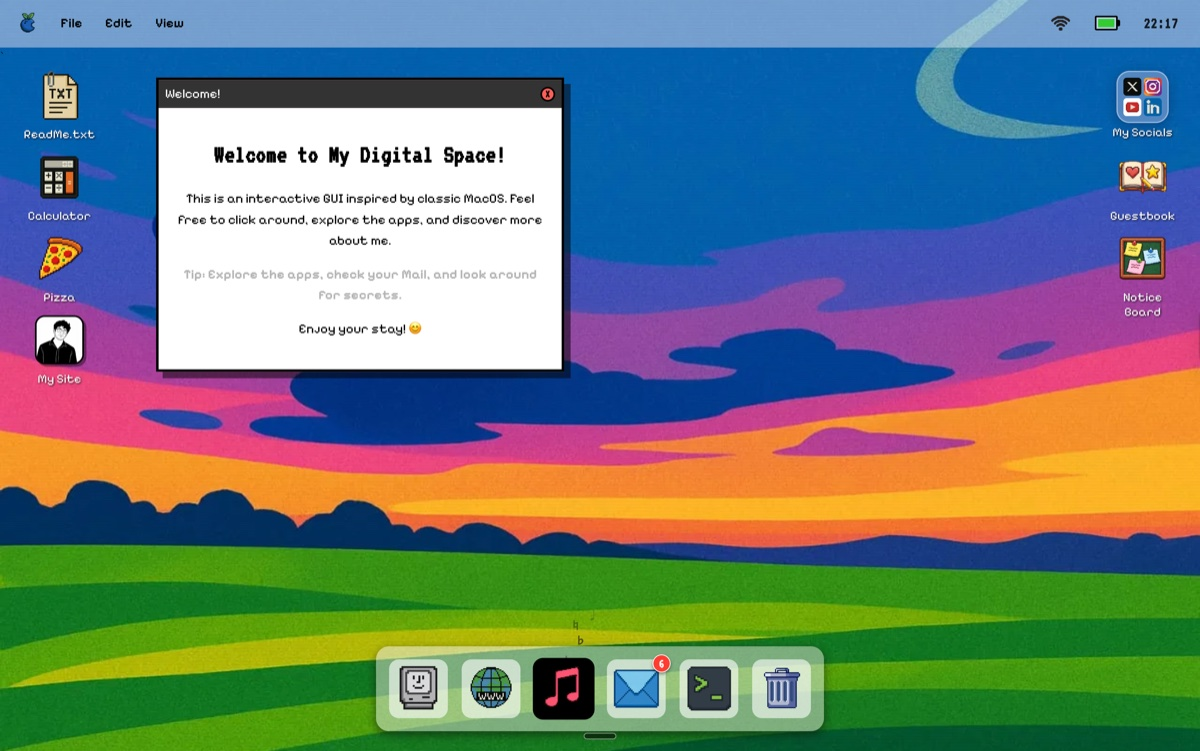
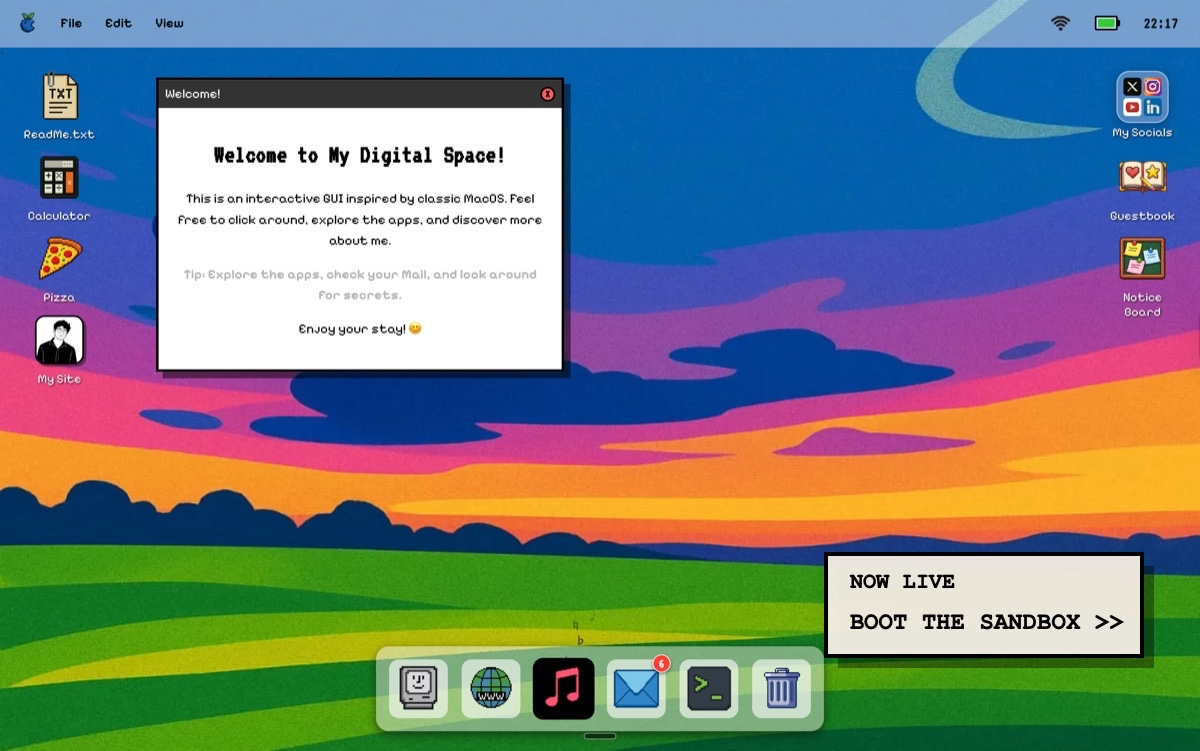
Open Graph tags

Changed region(s): [[0.6783, 0.735, 0.9867, 0.8881]]

diff --git a/index.html b/index.html
@@ -9,7 +9,7 @@
     <!-- HTML Meta Tags -->
     <meta
       name="description"
-      content="RetroOS is a product-grade operating system sandbox engineered as a desktop-style browser environment with modular apps, serverless services, and Redis-backed shared data."
+      content="RetroOS is a browser-based operating system sandbox with draggable windows, hidden interactions, modular apps, and Redis-backed shared data."
     />
 
     <!-- Facebook Meta Tags -->
@@ -21,7 +21,7 @@
     />
     <meta
       property="og:description"
-      content="RetroOS is a product-grade operating system sandbox engineered as a desktop-style browser environment with modular apps, serverless services, and Redis-backed shared data."
+      content="RetroOS is a browser-based operating system sandbox with draggable windows, hidden interactions, modular apps, and Redis-backed shared data."
     />
     <meta
       property="og:image"
@@ -38,7 +38,7 @@
     />
     <meta
       name="twitter:description"
-      content="RetroOS is a product-grade operating system sandbox engineered as a desktop-style browser environment with modular apps, serverless services, and Redis-backed shared data."
+      content="RetroOS is a browser-based operating system sandbox with draggable windows, hidden interactions, modular apps, and Redis-backed shared data."
     />
     <meta
       name="twitter:image"
@@ -149,7 +149,7 @@
     </div>
 
     <div
-      id="icon-portfolio"
+      id="icon-site"
       class="desktop-icon"
       data-open-action="url"
       data-open-target="https://abhinavkuchhal.com"
@@ -917,8 +917,8 @@
                   class="favourite-item internet-favourite-btn"
                   data-url="https://abhinavkuchhal.com"
                 >
-                  <img src="assets/icons/me.png" alt="Portfolio" />
-                  <span class="favourite-label">Portfolio</span>
+                  <img src="assets/icons/me.png" alt="Sandbox" />
+                  <span class="favourite-label">Sandbox</span>
                 </button>
                 <button
                   type="button"

diff --git a/js/apps/terminal.js b/js/apps/terminal.js
@@ -23,7 +23,7 @@ const terminalSocialLinks = [
     label: "Website",
     fileName: "Website.url",
     url: "https://abhinavkuchhal.com",
-    aliases: ["my site", "portfolio"],
+    aliases: ["my site", "website", "sandbox"],
   },
   {
     key: "github",
@@ -125,7 +125,7 @@ const terminalCommands = {
   cat: {
     description: "Read a text file or project note",
     usage: "cat <file>",
-    examples: ["cat ReadMe.txt", 'cat "01-retro-os-portfolio.txt"', 'cat "GitHub.url"'],
+    examples: ["cat ReadMe.txt", 'cat "01-retro-os-sandbox.txt"', 'cat "GitHub.url"'],
     execute(args) {
       const target = args.join(" ").trim();
       if (!target) {
@@ -147,7 +147,7 @@ const terminalCommands = {
       "open github",
       'open "HackYours"',
       'open "system architecture blueprint"',
-      'open "retro desktop portfolio inspiration"',
+      'open "retro desktop sandbox inspiration"',
     ],
     execute(args) {
       const target = args.join(" ").trim();
@@ -286,14 +286,14 @@ const terminalCommands = {
     },
   },
   about: {
-    description: "About the RetroOS portfolio",
+    description: "About the RetroOS operating system sandbox",
     usage: "about",
     execute() {
       return createTextResult(
         [
           `Retro OS v${TERMINAL_OS_VERSION}`,
           "",
-          "A product-grade interactive portfolio engineered as a desktop-style browser environment with modular apps and Redis-backed shared features.",
+          "A product-grade operating system sandbox engineered as a desktop-style browser environment with modular apps and Redis-backed shared features.",
           "The terminal now mirrors the rest of the OS with real window hooks, folder navigation,",
           "project shortcuts, mail summaries, and theme controls.",
         ].join("\n")

diff --git a/js/apps/projects.js b/js/apps/projects.js
@@ -6,8 +6,8 @@
 // --- DATA ---
 const projectsData = [
   {
-    title: "Retro OS Portfolio",
-    description: "The interactive portfolio website you are currently viewing, inspired by classic MacOS.",
+    title: "Retro OS Sandbox",
+    description: "The interactive operating system sandbox you are currently viewing, inspired by classic MacOS.",
     date: "Aug 23, 2025",
     technologies: ["HTML5", "CSS3", "JavaScript"],
     demoUrl: "#", codeUrl: "#",
@@ -37,11 +37,11 @@ const projectsData = [
     codeUrl: "https://github.com/JustPratiyush/AI-Powered-Medical-Assistant",
   },
   {
-    title: "Old Personal Website",
-    description: "My primary personal portfolio website showcasing my skills, projects, and professional journey.",
+    title: "Legacy Personal Website",
+    description: "My previous personal website showcasing my skills, projects, and professional journey.",
     date: "Jun 22, 2025",
     technologies: ["Vanilla Frontend"],
-    demoUrl: "https://www.oldportfolio.abhinavkuchhal.com",
+    demoUrl: "#",
     codeUrl: "#",
   },
 ];

diff --git a/js/system.js b/js/system.js
@@ -809,7 +809,7 @@ function menuAction(action) {
     case "About This Mac":
       createMessageWindow(
         "About This Mac",
-        `<strong>Retro OS v2.1</strong><br>Created by Abhinav Kuchhal.<br><br>A fun, interactive portfolio website inspired by classic Mac OS. Enjoy your stay!`
+        `<strong>Retro OS v2.1</strong><br>Created by Abhinav Kuchhal.<br><br>An interactive operating system sandbox inspired by classic Mac OS. Enjoy your stay!`
       );
       break;
     case "System Info":

diff --git a/README.md b/README.md
@@ -1,6 +1,6 @@
 # RetroOS
 
-RetroOS is a handcrafted single-page portfolio that recreates a retro desktop operating system in the browser with vanilla HTML, CSS, and JavaScript. The app combines draggable windows, a Finder-style file browser, a stateful terminal shell, an in-app web browser, lore-heavy mail, and Redis-backed community apps without introducing a framework.
+RetroOS is a handcrafted single-page operating system sandbox that recreates a retro desktop operating system in the browser with vanilla HTML, CSS, and JavaScript. The app combines draggable windows, a Finder-style file browser, a stateful terminal shell, an in-app web browser, lore-heavy mail, and Redis-backed community apps without introducing a framework.
 
 ![Desktop Overview](assets/screenshots/Demo1.png)
 
@@ -53,7 +53,7 @@ Check the repo notes in `.skills/retro-os/` before changing architecture or desi
 
 ## Contact
 
-- Portfolio: [abhinavkuchhal.com](https://abhinavkuchhal.com)
+- Live Sandbox: [abhinavkuchhal.com](https://abhinavkuchhal.com)
 - GitHub: [@JustPratiyush](https://github.com/JustPratiyush)
 - X: [@JustPratiyush](https://x.com/JustPratiyush)
 - Instagram: [@abhinavkuchhal7](https://www.instagram.com/abhinavkuchhal7/)

diff --git a/.skills/retro-os/SKILL.md b/.skills/retro-os/SKILL.md
@@ -1,13 +1,13 @@
 name: retro-os
 description: >
-The complete agent guide for RetroOS — a vanilla JS/CSS/HTML personal portfolio
+The complete agent guide for RetroOS — a vanilla JS/CSS/HTML operating system sandbox
 that simulates a classic desktop OS in the browser. Use this skill whenever
 making any change to this project. It defines the stack constraints, design rules,
 file organisation, and app-by-app responsibilities.
 
 # RetroOS Agent Skill
 
-RetroOS is a creative personal portfolio built entirely with vanilla HTML5, CSS3, and JavaScript. It mimics a retro desktop operating system in the browser and relies on direct DOM patterns instead of framework abstractions.
+RetroOS is a creative operating system sandbox built entirely with vanilla HTML5, CSS3, and JavaScript. It mimics a retro desktop operating system in the browser and relies on direct DOM patterns instead of framework abstractions.
 
 **Owner:** Abhinav Kuchhal — `https://abhinavkuchhal.com`
 

diff --git a/server/README.md b/server/README.md
@@ -1,6 +1,6 @@
 # RetroOS Email Backend
 
-A custom Node.js backend service to handle email notifications for the RetroOS portfolio website, replacing third-party services like Formspree.
+A custom Node.js backend service to handle email notifications for the RetroOS operating system sandbox, replacing third-party services like Formspree.
 
 ## Features
 
@@ -113,7 +113,7 @@ Test email configuration without sending a message.
 ## Email Template
 
 The service sends beautifully formatted emails with:
-- Retro-styled HTML design matching your portfolio
+- Retro-styled HTML design matching your operating system sandbox
 - Sender information and timestamp
 - Reply-to functionality
 - Plain text fallback

diff --git a/AGENTS.md b/AGENTS.md
@@ -2,7 +2,7 @@
 
 This file applies to the entire repository.
 
-RetroOS is a single-page portfolio that recreates a retro desktop OS in the browser. Treat it as a handcrafted vanilla web app, not a framework project. Changes should preserve the illusion of a 1990s operating system while keeping the codebase modular and predictable.
+RetroOS is a single-page operating system sandbox that recreates a retro desktop OS in the browser. Treat it as a handcrafted vanilla web app, not a framework project. Changes should preserve the illusion of a 1990s operating system while keeping the codebase modular and predictable.
 
 ## Read First
 

diff --git a/.skills/retro-os/conventions.md b/.skills/retro-os/conventions.md
@@ -71,7 +71,7 @@ Fix: Respect `--file-icon-size` from `css/main.css`. The `64px` value belongs on
 
 | Platform | URL used in the live UI |
 |---|---|
-| Portfolio | `https://abhinavkuchhal.com` |
+| Sandbox | `https://abhinavkuchhal.com` |
 | GitHub | `https://github.com/JustPratiyush` |
 | X | `https://x.com/JustPratiyush` |
 | Instagram | `https://www.instagram.com/abhinavkuchhal7/` |
